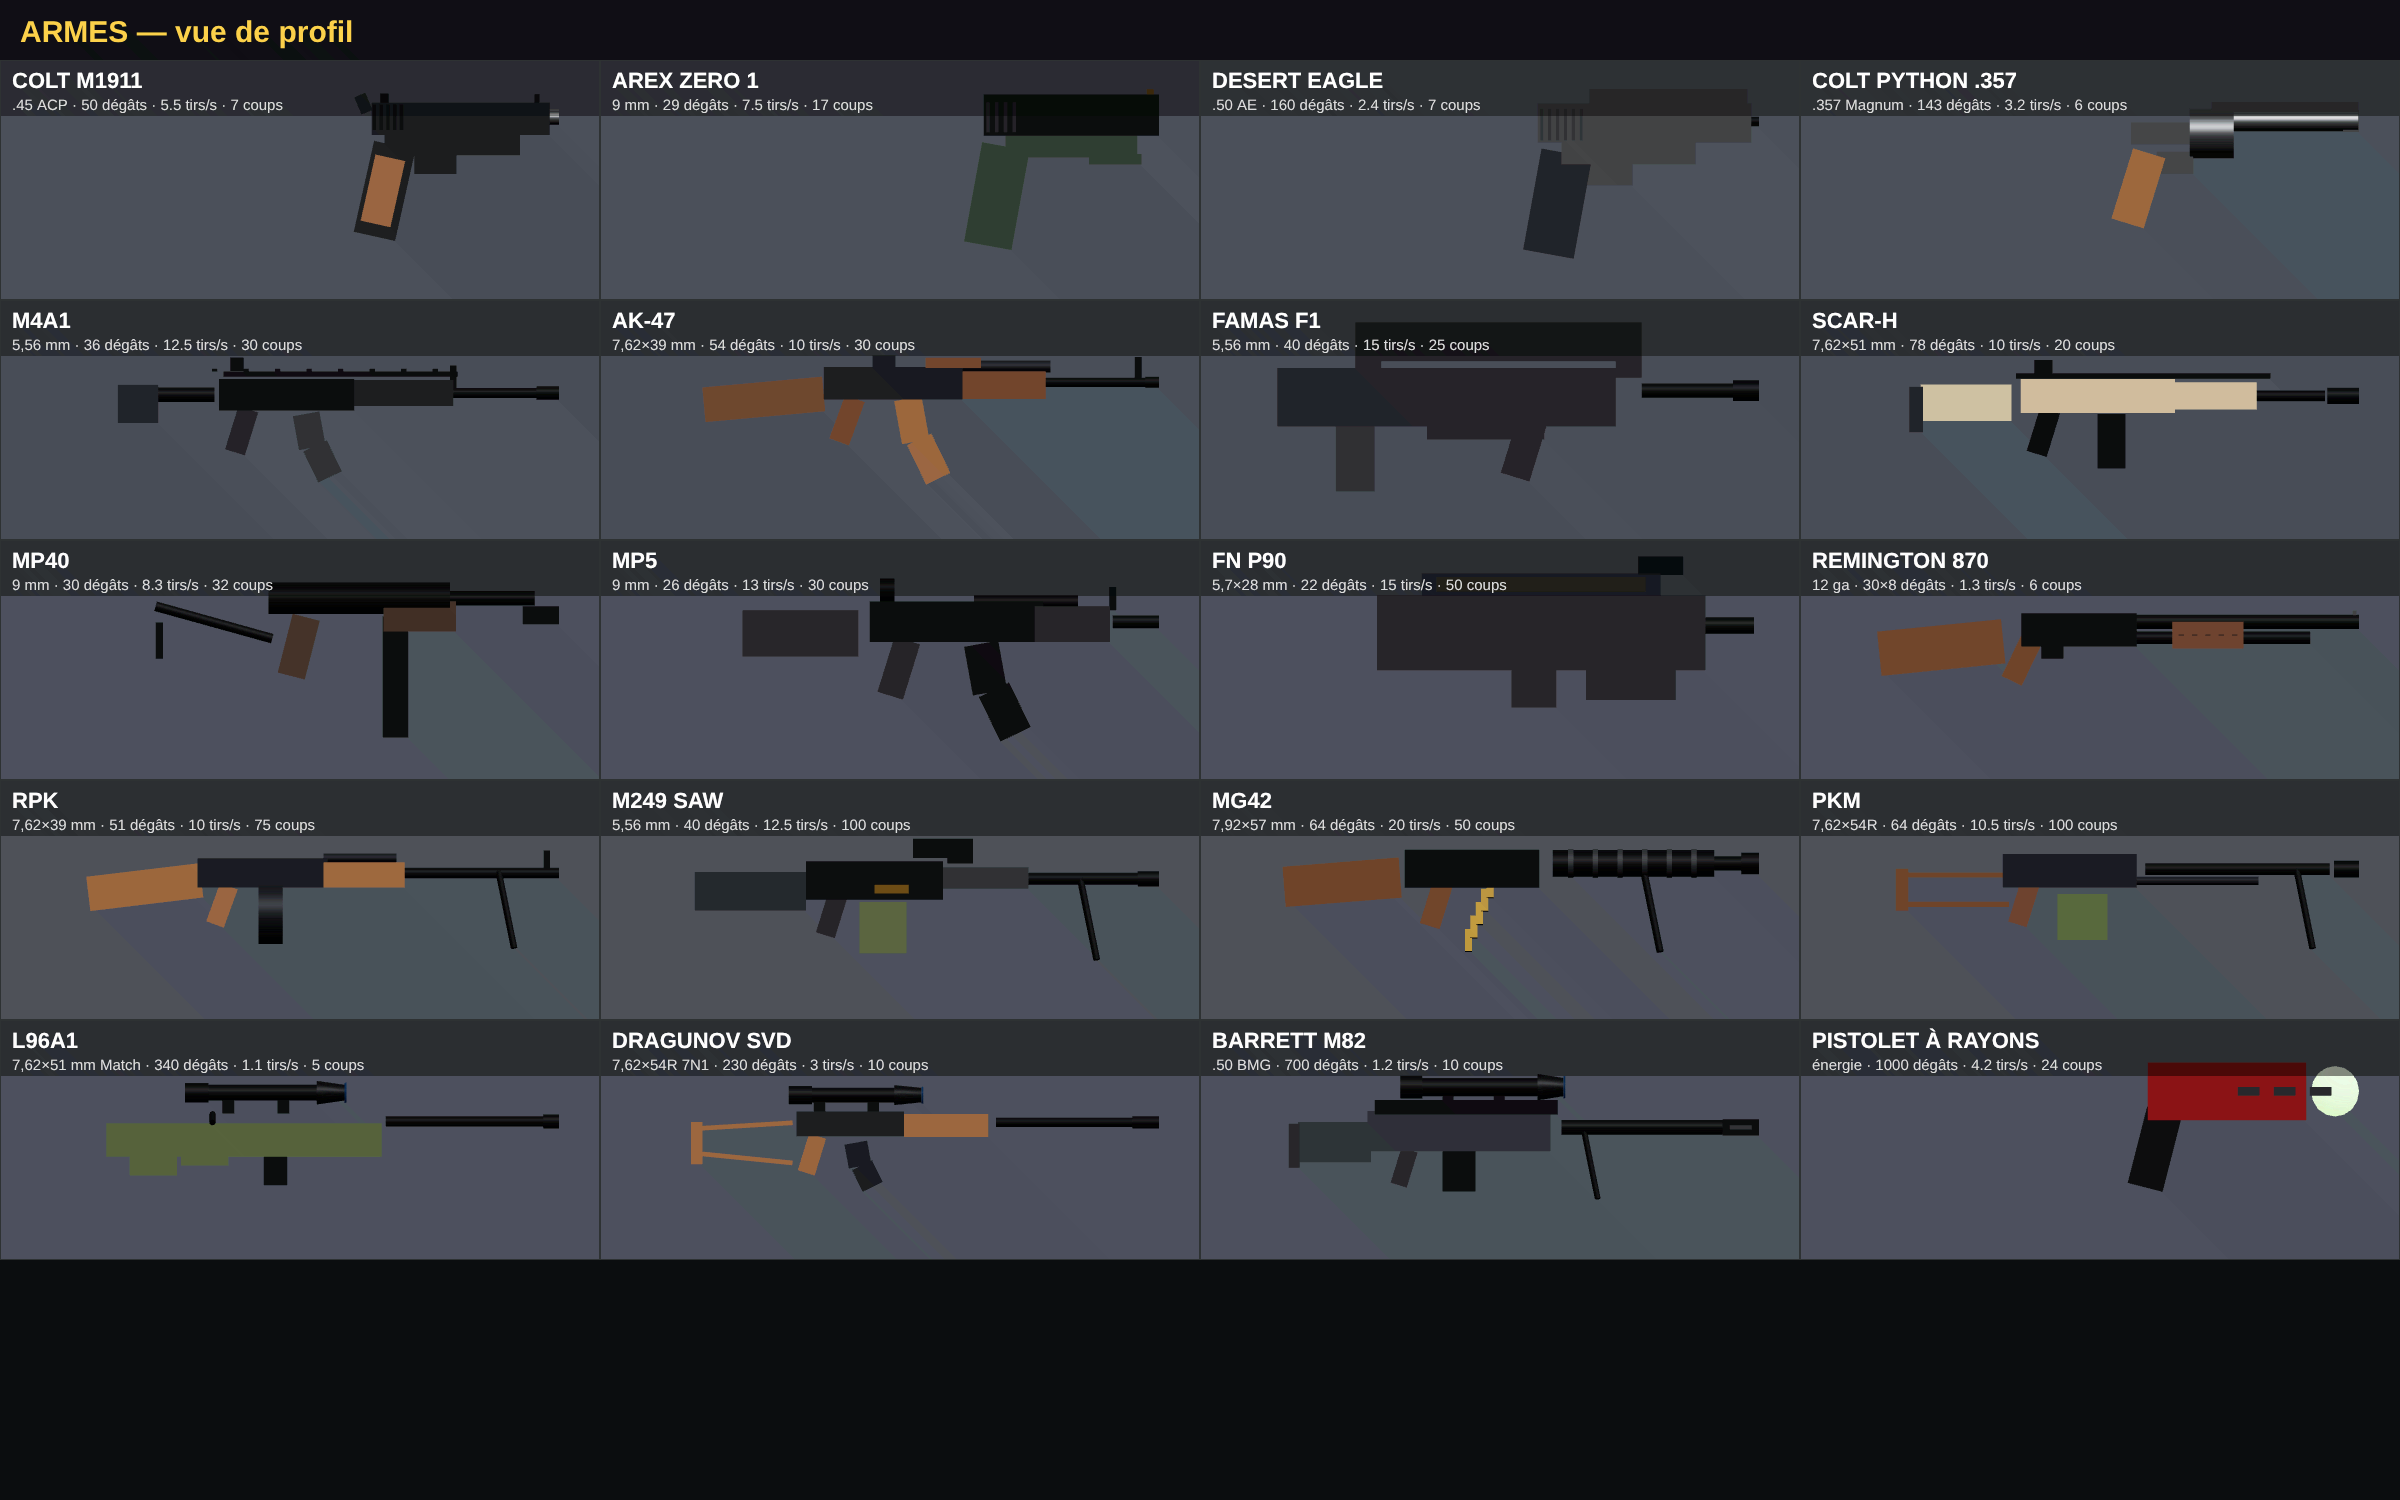
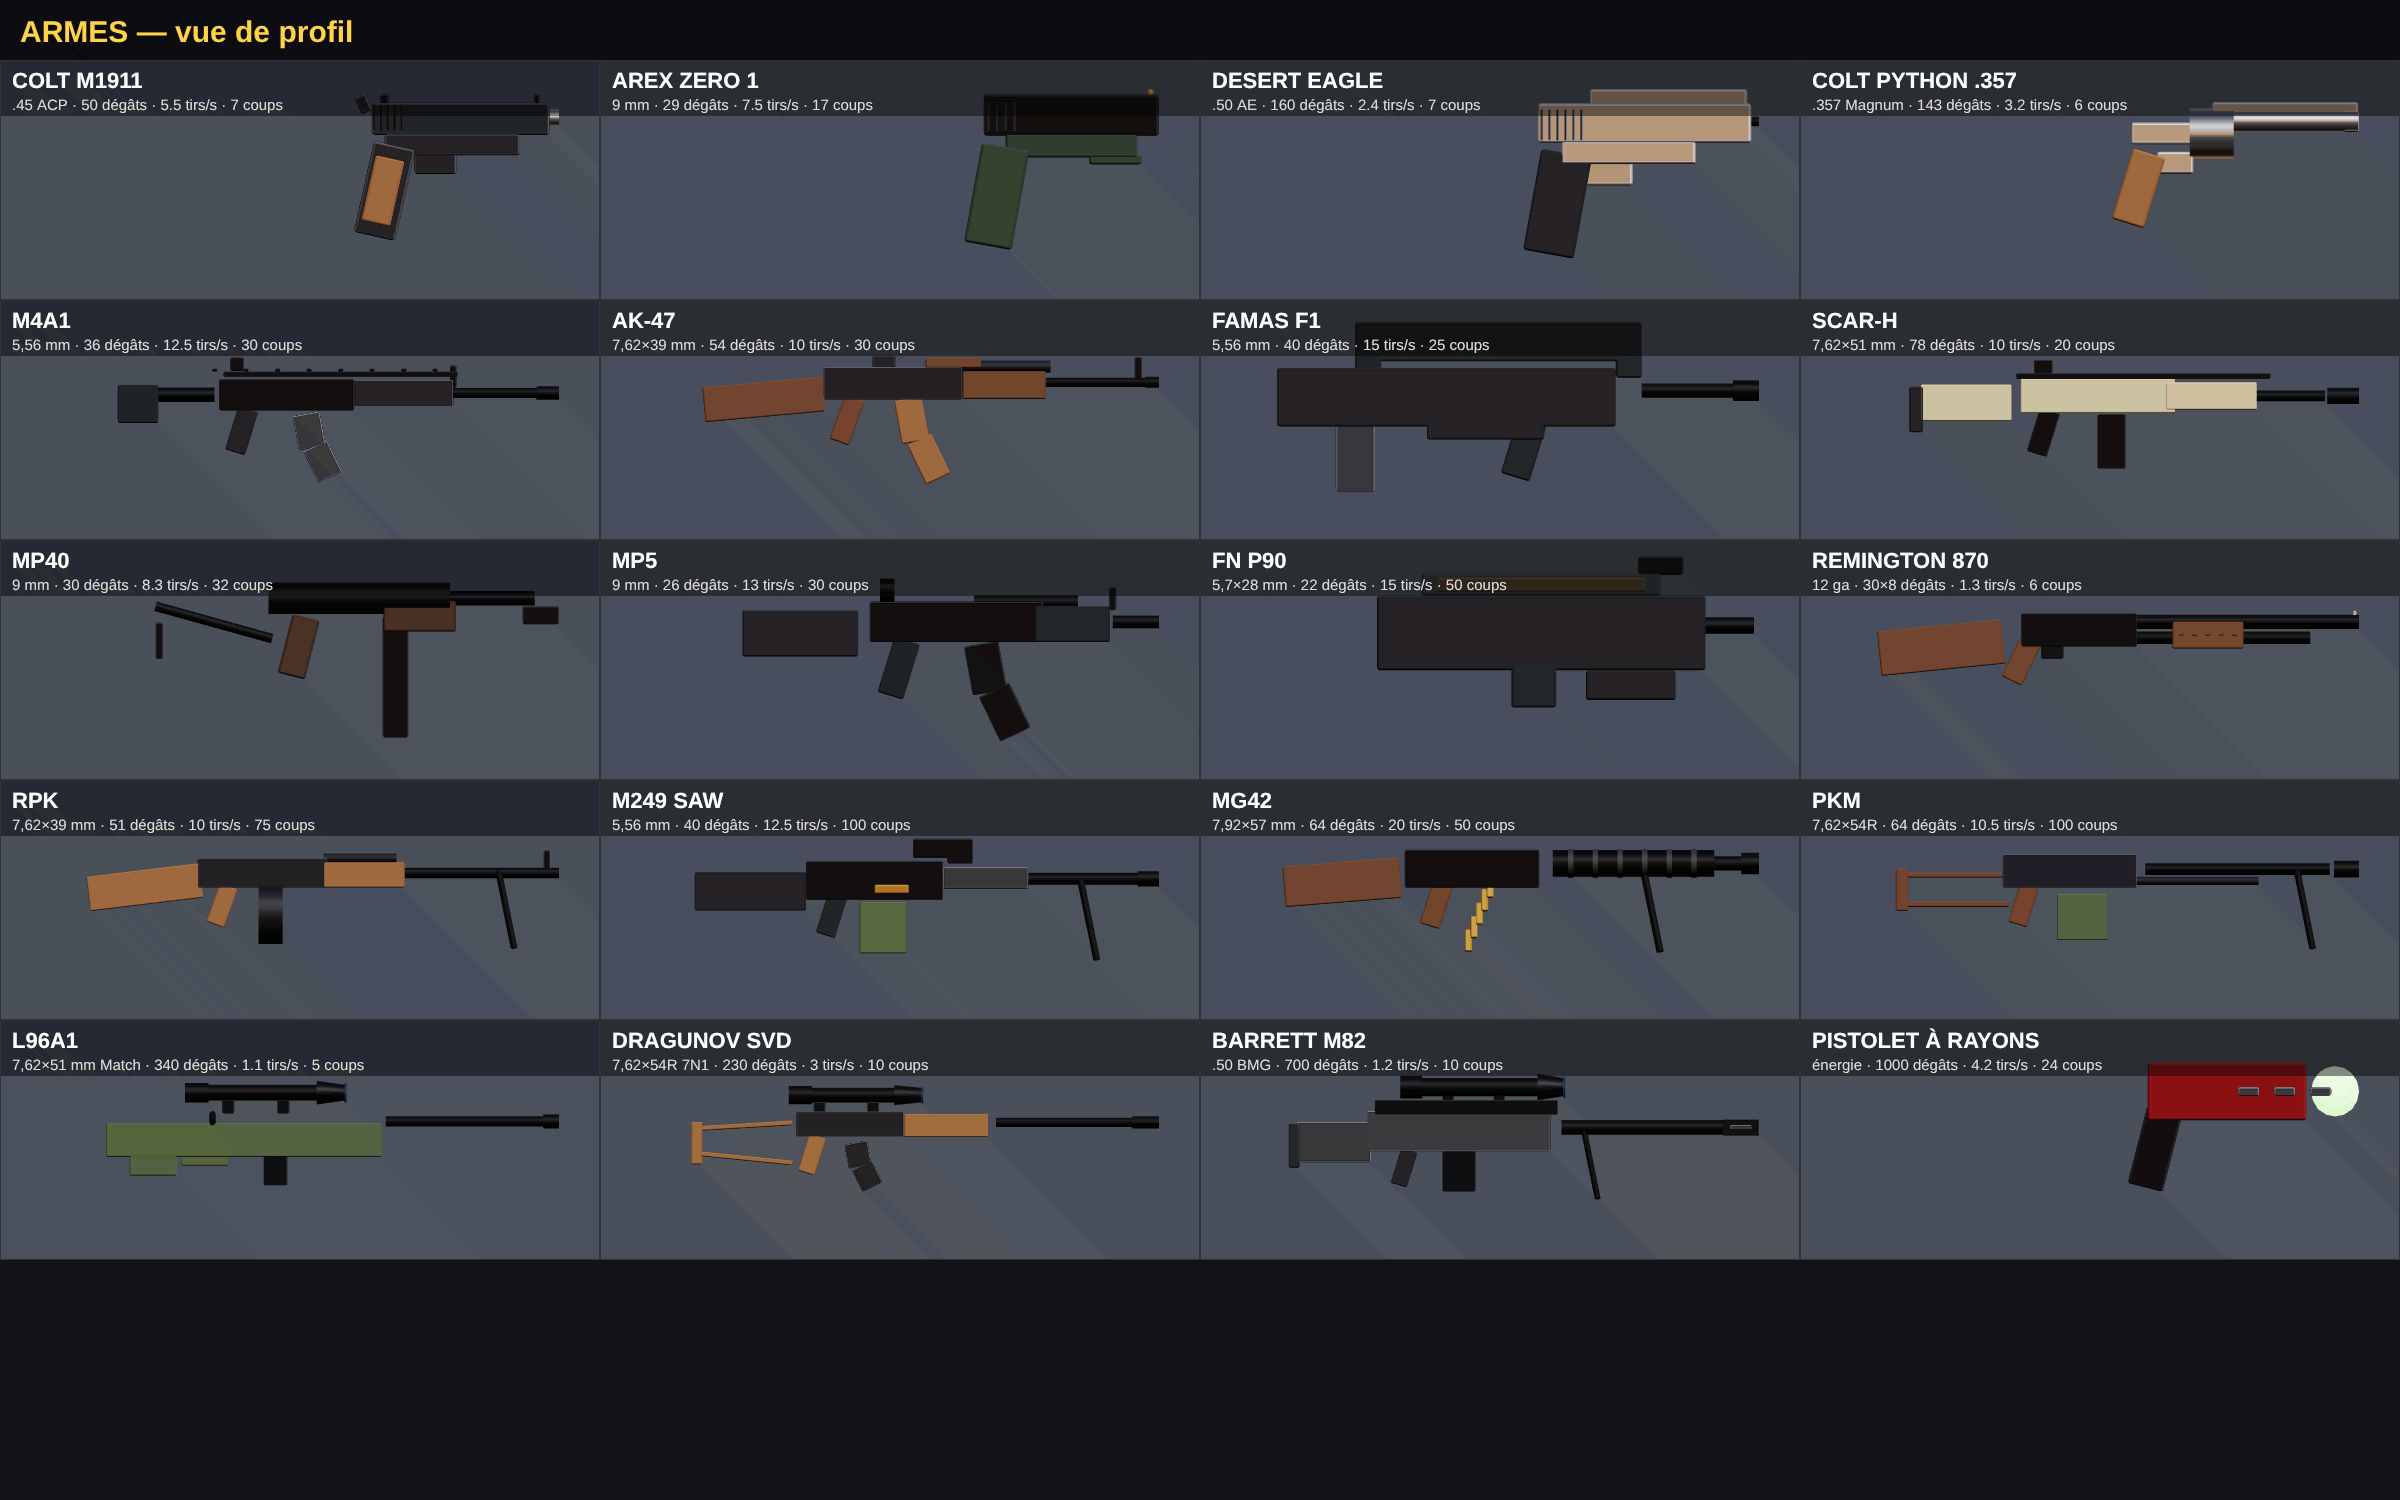
Warmer, softer torch (no more white zombies), docs regenerated (REFERENCE, CSV, weapons sheet), README graphics section (v0.45.2)
Claude-Session: https://claude.ai/code/session_01NwrHt9XwuJuzLTWQFVnH3Y

Changed region(s): [[0.625, 0.0613, 0.75, 0.1227], [0.875, 0.0613, 1.0, 0.1227]]

diff --git a/src/config.js b/src/config.js
@@ -586,8 +586,8 @@ export const CONFIG = {
     ],
     // tone mapping : 'aces' | 'agx' | 'neutral' ; exposition de base (multipliée par Luminosité des Options et par la zone)
     tone: { type: 'aces', exposure: 1.3 },
-    // lampe torche (player.js) : intensité, ouverture, bord adouci (penumbra), décroissance, portée
-    torch: { intensity: 13, angle: 0.5, penumbra: 0.9, decay: 1.25, distance: 40 },
+    // lampe torche (player.js) : intensité (v0.43.0 : 55), ouverture, bord adouci (penumbra), décroissance, portée, teinte (chaude : les zombies ne blanchissent plus)
+    torch: { intensity: 9, angle: 0.5, penumbra: 0.9, decay: 1.1, distance: 40, color: 0xffe0b0 },
     // armes (viewmodels.js) : chanfrein des boîtes (m), segments d'arrondi, usure des arêtes (gain de clarté, seuil), intensité des reflets d'ambiance
     weapons: { bevel: 0.0035, bevelSegments: 1, wear: 3.2, wearFrom: 0.05, env: 1.6 },
     // pieds de murs assombris (architecture.js, couleurs de sommet) : [hauteur au-dessus de la base (m), facteur de luminosité]

diff --git a/src/player.js b/src/player.js
@@ -33,7 +33,7 @@ export class Player {
     this.bindInput();
 
     // Lampe torche tactique
-    this.flashlight = new THREE.SpotLight(0xfff2d0, CONFIG.graphics.torch.intensity, CONFIG.graphics.torch.distance, CONFIG.graphics.torch.angle, CONFIG.graphics.torch.penumbra, CONFIG.graphics.torch.decay); // réglée par CONFIG.graphics.torch (intensité par zone : graphics.js)
+    this.flashlight = new THREE.SpotLight(CONFIG.graphics.torch.color, CONFIG.graphics.torch.intensity, CONFIG.graphics.torch.distance, CONFIG.graphics.torch.angle, CONFIG.graphics.torch.penumbra, CONFIG.graphics.torch.decay); // réglée par CONFIG.graphics.torch (intensité par zone : graphics.js)
     this.flashlight.position.set(0, 0, 0);
     this.flashlight.target.position.set(0, 0, -1);
     camera.add(this.flashlight, this.flashlight.target);

diff --git a/README.md b/README.md
@@ -73,6 +73,8 @@ Options (titre ou pause) : **Luminosité**, **Champ de vision**, **Sensibilité*
 | Rendu et étalonnage | direct | direct | cible multi-échantillonnée + table de couleurs (avec « Effets cinéma ») |
 | Particules / taches de sang au sol | 50 % / 16 | 100 % / 36 | 100 % / 64 |
 
+Depuis la v0.45.0, les façades ont du **relief** (encadrements de fenêtres saillants, appuis, balcons, corniches, descentes de gouttière, cheminées) et des salissures (coulures, fissures, taches), dessinés seulement à moins de 30 / 60 / 110 m selon la qualité (Rapide / Normale / Haute) ; les collisions et la navigation restent sur le contour des bâtiments.
+
 « Effets cinéma » ajoute une vignette et un grain léger (superposition CSS, coût nul) et, en Haute, l'étalonnage par table de couleurs. Les valeurs (intensité de la torche, exposition et reflets par zone, ciel, étalonnage) sont dans le bloc `graphics` de `src/config.js` ; la cathédrale garde sa pénombre (reflets d'ambiance réduits dans l'intérieur).
 
 ## Jouer sur son PC
@@ -129,7 +131,7 @@ Posez un fichier `theme.mp3` (ou `.ogg`, `.m4a`, `.wav`) dans `public/music/` : 
 
 | Dossier | Contenu |
 |---|---|
-| `src/` | Code du jeu (modules ES) ; l'équilibrage est dans `src/config.js` |
+| `src/` | Code du jeu (modules ES) ; l'équilibrage et les réglages graphiques (bloc `graphics`) sont dans `src/config.js` ; rendu : `graphics.js` (qualité, exposition par zone, reflets, étalonnage), `sky.js`, `contact.js`, `relief.js` (façades en relief), `envmap.js` |
 | `server/` | Relais multijoueur (`rooms.mjs`) et serveur de production (`prod.mjs`) |
 | `public/` | Données de la carte (`data/area.json`), textures, dossier de musique |
 | `tools/` | Outils : extraction OSM, génération des docs (`make-docs.mjs`), détection de blocages (`stuck-scan.mjs`), tests |

diff --git a/docs/REFERENCE.md b/docs/REFERENCE.md
@@ -1,6 +1,6 @@
 # Zombie Survival — fiche de référence
 
-Version du jeu : **v0.43.0 · 41930d5 · 2026-10-12** (package 0.43.0). Générée automatiquement par `node tools/make-docs.mjs` à partir de `src/config.js` et du jeu.
+Version du jeu : **v0.45.1 · 335f08b · 2026-10-14** (package 0.45.2). Générée automatiquement par `node tools/make-docs.mjs` à partir de `src/config.js` et du jeu.
 Carte annotée : [carte.png](carte.png). Armes de profil : [armes.png](armes.png). Les mêmes tableaux en tableur : dossier [csv/](csv/).
 
 Pour demander une modification, citez la ligne (ex. « Mitrailleuse RPK : chargeur 100 », « Mastodonte à 3000 pts », « porte P3 à 500 pts », « mettre la boîte mystère dans la zone Temple-Neuf »).
